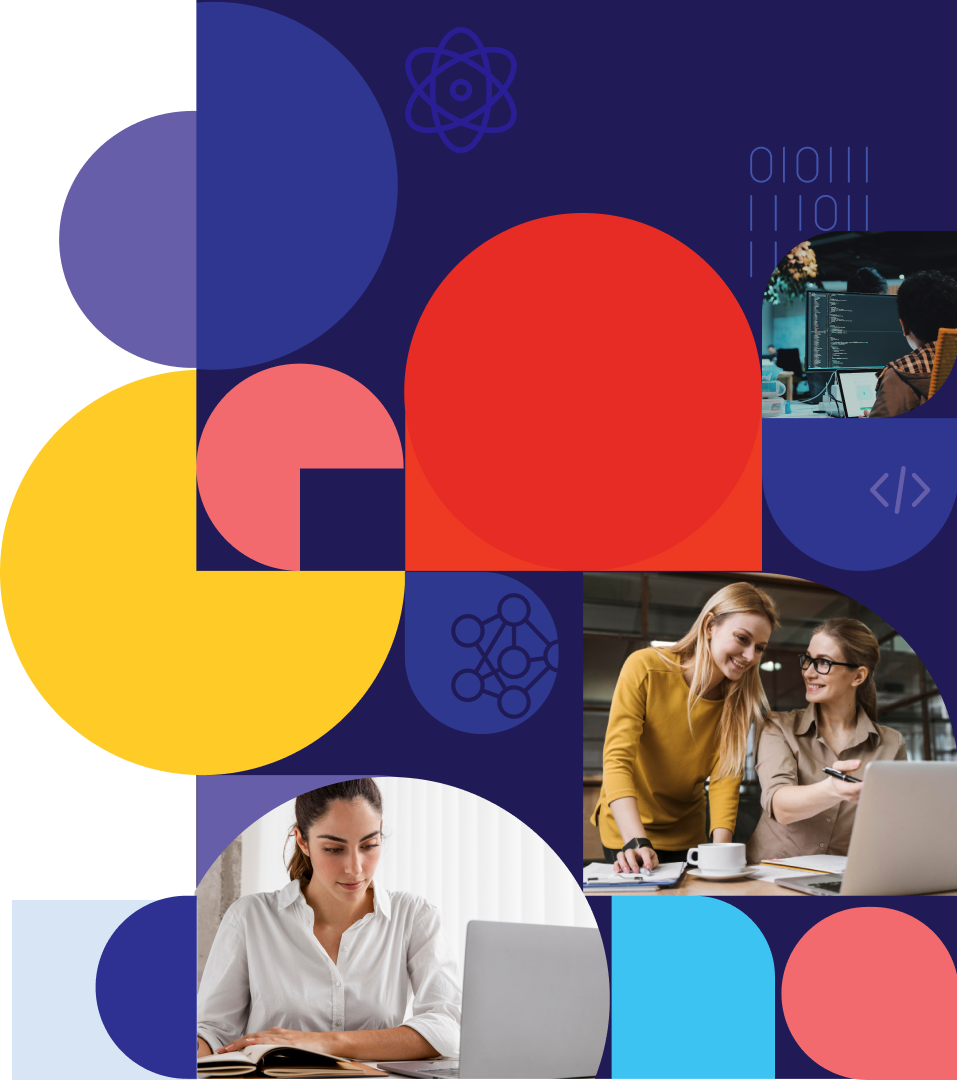
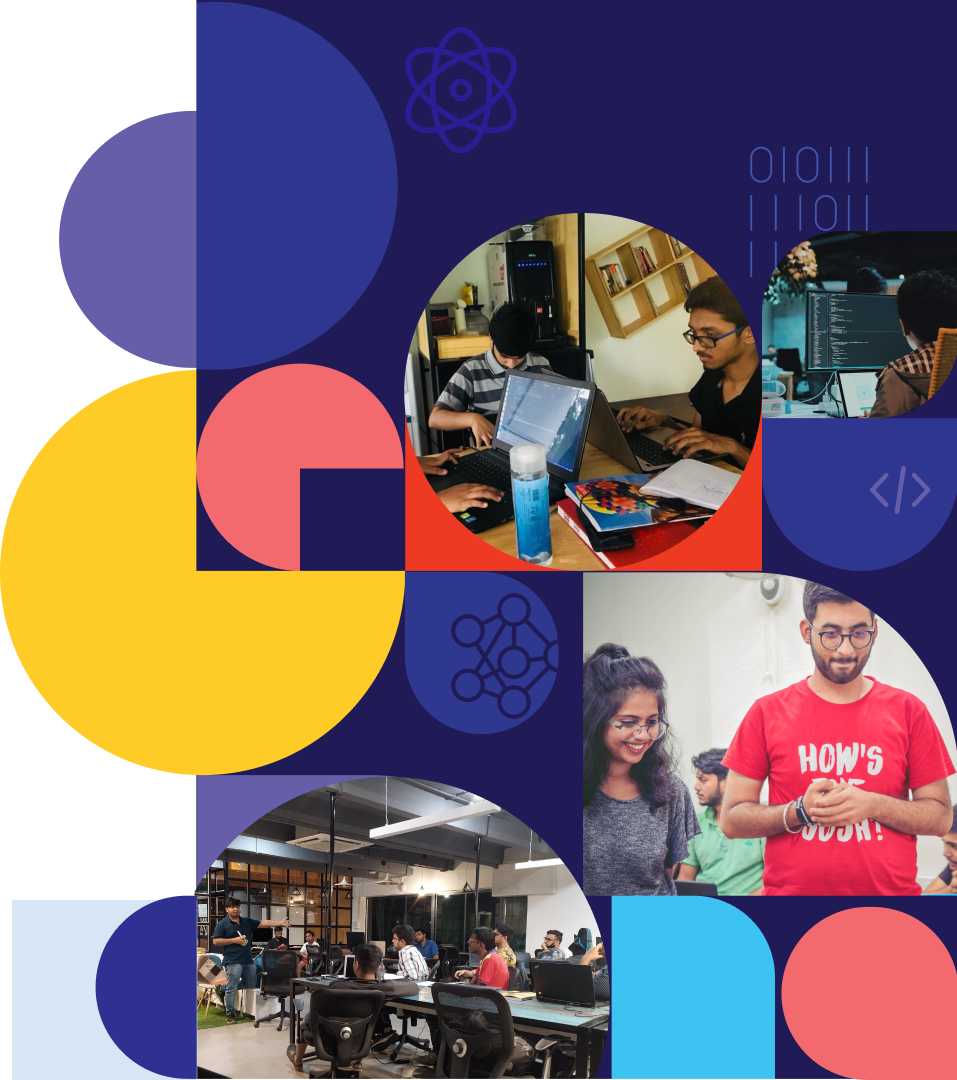
polished1

diff --git a/src/components/Home/Community/community.module.scss b/src/components/Home/Community/community.module.scss
@@ -17,18 +17,27 @@
     position: absolute;
     bottom: 12rem;
 }
+.Mob{
+    display: none;
+}
 
 @media(max-width: 576px){
     .container{
-        @include flexcenter(flex-start,center,column);
+       display: none;
+    }
+    .Mob{
+        display: block;
+        @include flexcenter(center,center,column);
+        overflow: hidden;
+        background: #F1F2F4;
+        width:100%;
+        height:60vh;
+        position: relative;
     }
     .heading{
-        @include Font(Noto Sans, 1rem, bold, 1.2rem, $primarycolor);
-        top: 2.5rem;
+        @include Font(Noto Sans, 1.5rem, bold, 1.7rem, $primarycolor);
     }
-    .content{
-        @include flexcenter(center,center,column);
-        @include Font(Noto Sans, 0.5rem, bold, 0.7rem, #343434);
-        bottom: 4rem;
+    .content1{
+        @include Font(Noto Sans, 1rem, bold, 1.2rem, #343434);
     }
 }

diff --git a/src/components/Home/Courses/OflineBootcamps/offline.js b/src/components/Home/Courses/OflineBootcamps/offline.js
@@ -3,6 +3,7 @@ import styles from './offline.module.scss'
 import Layout from '../../../Common/layout'
 
 import Pic from '../../../../images/pic.png'
+import PicM from '../../../../images/picM.png'
 
 
 const offline = () => {
@@ -12,7 +13,8 @@ const offline = () => {
                 <div className={styles.Heading}><p>Offline <span style={{ color:"#2E388E"}}>bootcamp</span></p></div>
                 <div className={styles.card}>
                     <div className={styles.child1}>
-                        <img src={ Pic } alt=" Pic " width="100%"/>
+                        <img className={styles.des} src={ Pic } alt=" Pic " width="100%"/>
+                        <img className={styles.mob} src={ PicM } alt=" Pic " width="100%"/>
                     </div>
                     <div className={styles.child2}>
                         <div className={styles.subheader}>

diff --git a/src/components/Home/Community/community.js b/src/components/Home/Community/community.js
@@ -3,6 +3,7 @@ import styles from './community.module.scss';
 import Layout from '../../Common/layout';
 
 import pic from '../../../images/community.png';
+import Mob from '../../../images/communityMob.png'
 
 const community = () => {
     return(
@@ -16,6 +17,15 @@ const community = () => {
                 <div className={styles.content}>
                     <p>strong community to growth with</p> 
                 </div>
+            </div>
+
+            <div className={styles.Mob}>
+                 <img src={ Mob } alt="background" width="70%" />
+                 <div className={styles.heading}>
+                    <p>25K+ Students </p>
+                    <p>are in One Place</p>
+                    <p className={styles.content1}>strong community to growth with</p> 
+                </div>       
             </div>
         </Layout>
     )

diff --git a/src/components/Home/Courses/OflineBootcamps/offline.module.scss b/src/components/Home/Courses/OflineBootcamps/offline.module.scss
@@ -21,6 +21,9 @@
     margin-top: 2rem;
     padding: 10px 20px;
 }
+.mob{
+    display: none;
+}
 .child1{
     width:35%;
     @include flexcenter(center,center,'');
@@ -93,6 +96,12 @@
         width:90%;
         padding: 10px;
         border-radius: 12px;
+    }
+    .mob{
+        display:block;
+    }
+    .des{
+        display: none;
     }
     .child1{
         width:100%;

diff --git a/src/pages/Home/home.js b/src/pages/Home/home.js
@@ -28,8 +28,8 @@ const App =() =>{
          <Company />
          <Graduates />
          <Hiring />
-         {/* <Testimonials />
-         <Community /> */}
+         <Testimonials />
+         <Community />
          <Footer />
         </>
     )
